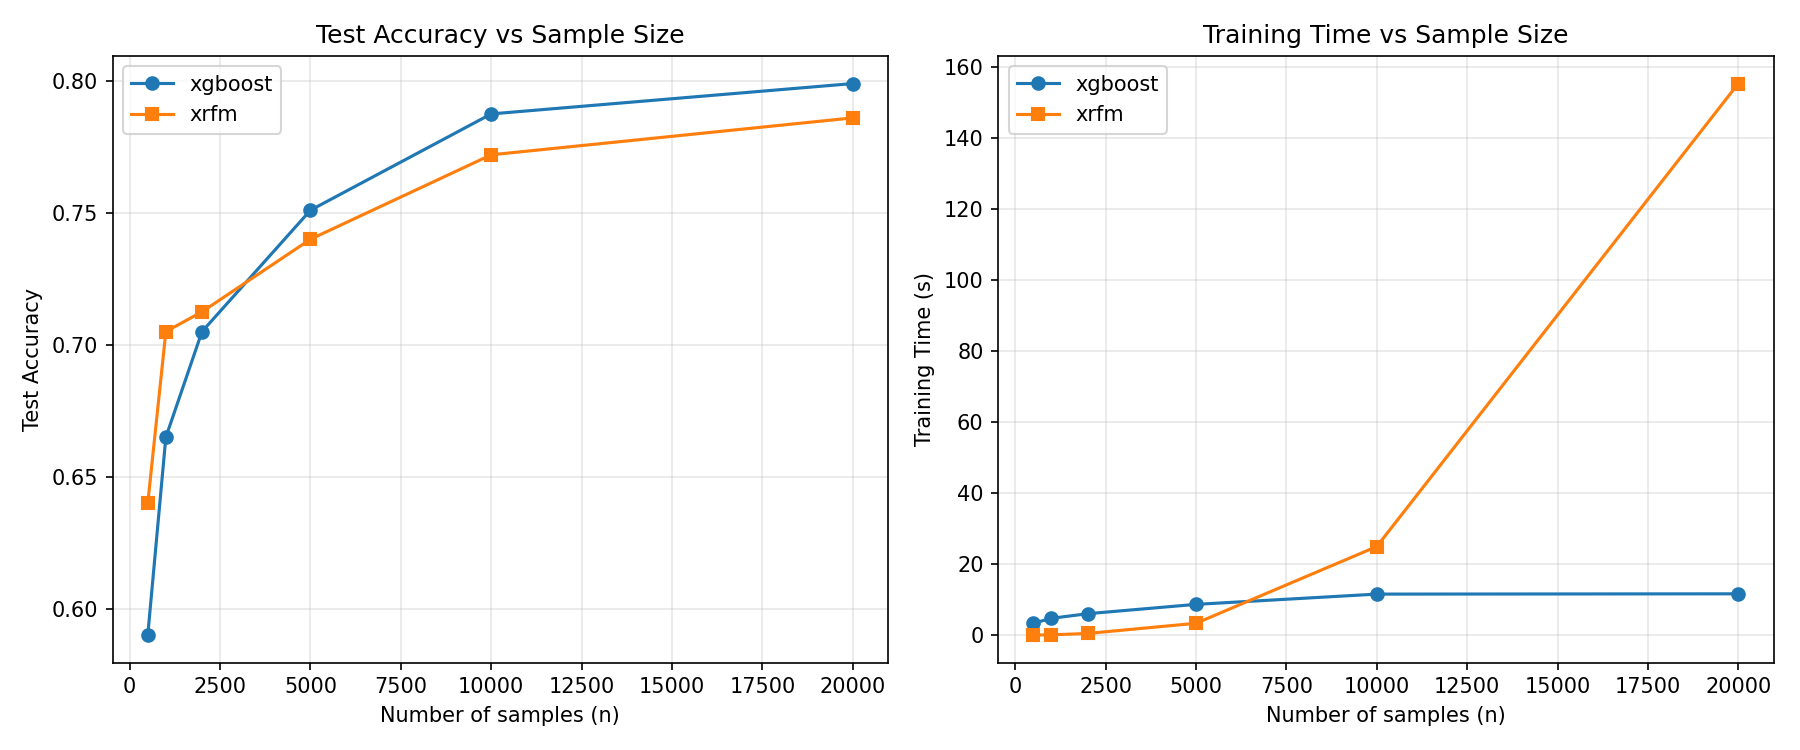
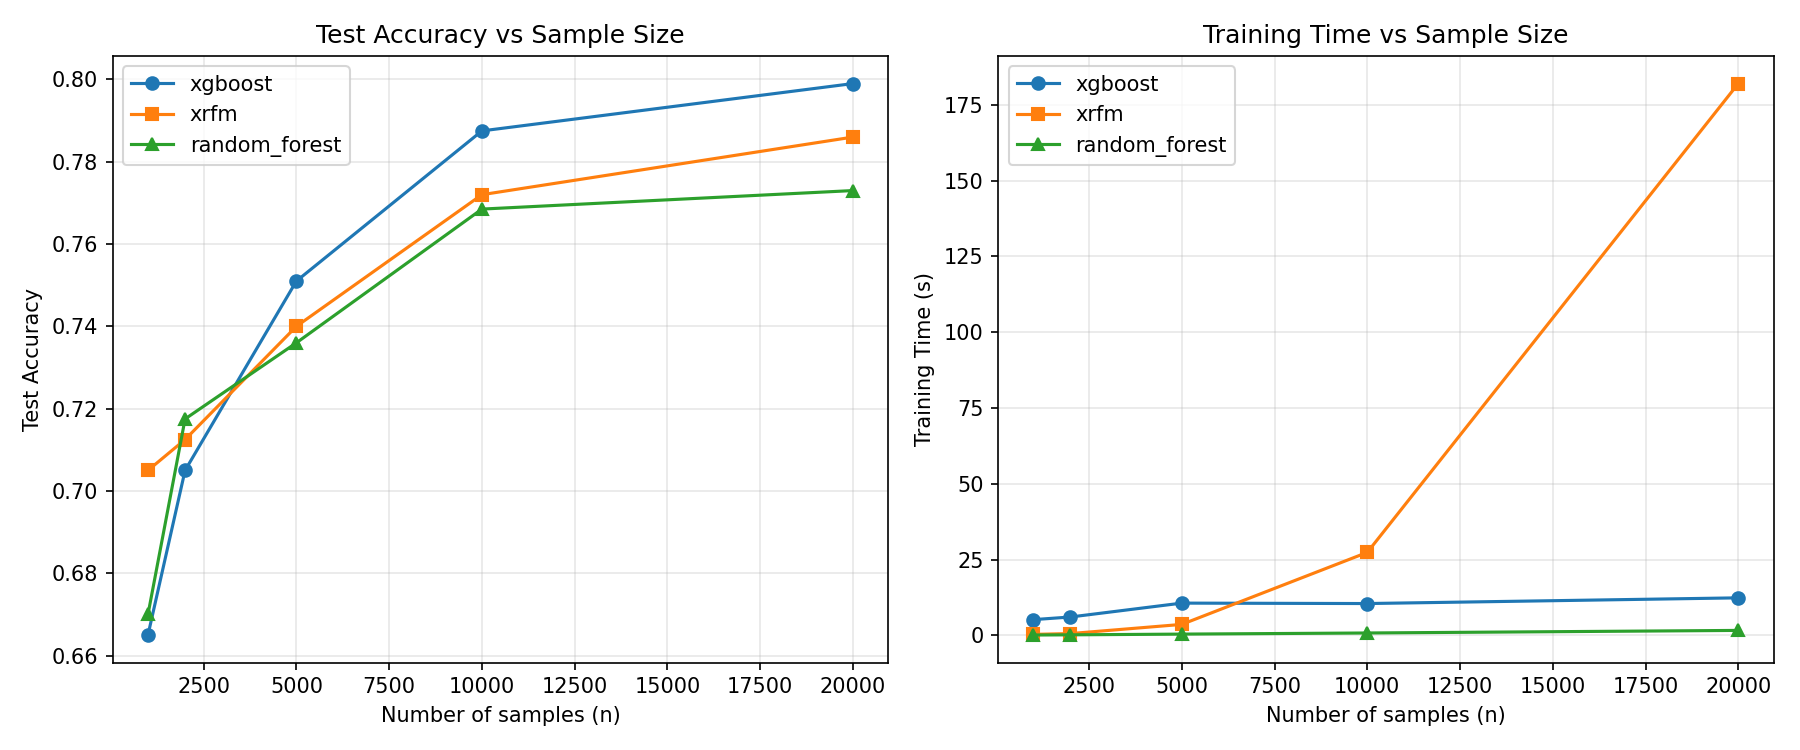
Add Random_Forest and optimization

diff --git a/scaling_test.py b/scaling_test.py
@@ -20,26 +20,27 @@ from sklearn.preprocessing import OneHotEncoder
 from pathlib import Path
 
 
-N_VALUES = [500, 1000, 2000, 5000, 10000, 20000]
+N_VALUES = [1000, 2000, 5000, 10000, 20000]
 RANDOM_STATE = 42
 
 
-def run_xgboost(X_train, y_train, X_test, y_test, best_params):
-    """用已知的 best_params 训练 XGBoost，返回 accuracy 和 training time"""
-    from xgboost import XGBClassifier
+def run_others(model_name, X_train, y_train, X_test, y_test):
+    """用已有的 best_params 训练模型，返回 accuracy 和 training time"""
+    from configs.config import MODEL_CONFIG
 
-    model = XGBClassifier(
-        objective="multi:softprob",
-        eval_metric="mlogloss",
-        random_state=RANDOM_STATE,
-    )
-    model.set_params(**best_params)
+    # 读取已有的 best_params（不重新调参）
+    with open(f"configs/best_{model_name}.json") as f:
+        best_params = json.load(f)["best_params"]
+
+    model_config = MODEL_CONFIG[model_name]
+    estimator = model_config["estimator"]
+    estimator.set_params(**best_params)
 
     start = time.perf_counter()
-    model.fit(X_train, y_train)
+    estimator.fit(X_train, y_train)
     train_time = time.perf_counter() - start
 
-    y_pred = model.predict(X_test)
+    y_pred = estimator.predict(X_test)
     accuracy = get_accuracy(y_test, y_pred)
 
     return accuracy, train_time
@@ -82,12 +83,6 @@ def run_model(model_name):
     """对指定模型跑所有 n 值，保存结果到 JSON"""
     X, y, le = load_data()
 
-    # XGBoost 需要读 best_params
-    xgb_best_params = None
-    if model_name == "xgboost":
-        with open("configs/best_xgboost.json") as f:
-            xgb_best_params = json.load(f)["best_params"]
-
     results = {"n_values": N_VALUES, "accuracy": [], "train_time": []}
 
     for n in N_VALUES:
@@ -95,15 +90,17 @@ def run_model(model_name):
         print(f"{model_name} | n = {n}")
         print(f"{'='*50}")
 
-        X_train, X_test, y_train, y_test = split_data(X, y, n_samples=n)
+        if model_name != "xrfm":
+            X_train, X_test, y_train, y_test = split_data(X, y, n_samples=n)
 
-        # 转 numpy
-        X_train_np, X_test_np = X_train.values, X_test.values
-        y_train_np, y_test_np = y_train.values, y_test.values
+            acc, t = run_others(model_name, X_train, y_train, X_test, y_test)
+        else:
+            X_train, X_test, y_train, y_test = split_data(X, y, n_samples=n)
 
-        if model_name == "xgboost":
-            acc, t = run_xgboost(X_train_np, y_train_np, X_test_np, y_test_np, xgb_best_params)
-        elif model_name == "xrfm":
+            # 转 numpy
+            X_train_np, X_test_np = X_train.values, X_test.values
+            y_train_np, y_test_np = y_train.values, y_test.values
+
             acc, t = run_xrfm(X_train_np, y_train_np, X_test_np, y_test_np)
 
         results["accuracy"].append(float(acc))
@@ -122,16 +119,16 @@ def plot():
     """读取各模型的 scaling 结果，画对比图"""
     fig, axes = plt.subplots(1, 2, figsize=(12, 5))
 
-    for name in ["xgboost", "xrfm"]:
+    markers = {"xgboost": "o-", "xrfm": "s-", "random_forest": "^-"}
+    for name in ["xgboost", "xrfm", "random_forest"]:
         path = f"results/scaling_{name}.json"
         if not Path(path).exists():
             print(f"Warning: {path} not found, skipping")
             continue
         with open(path) as f:
             data = json.load(f)
-        marker = 'o-' if name == "xgboost" else 's-'
-        axes[0].plot(data["n_values"], data["accuracy"], marker, label=name)
-        axes[1].plot(data["n_values"], data["train_time"], marker, label=name)
+        axes[0].plot(data["n_values"], data["accuracy"], markers[name], label=name)
+        axes[1].plot(data["n_values"], data["train_time"], markers[name], label=name)
 
     axes[0].set_xlabel("Number of samples (n)")
     axes[0].set_ylabel("Test Accuracy")
@@ -155,7 +152,7 @@ if __name__ == "__main__":
     cmd = sys.argv[1]
     if cmd == "plot":
         plot()
-    elif cmd in ("xgboost", "xrfm"):
+    elif cmd in ("xgboost", "xrfm", "random_forest"):
         run_model(cmd)
     else:
         print(f"Unknown command: {cmd}")

diff --git a/tune.py b/tune.py
@@ -8,12 +8,7 @@ from sklearn.model_selection import GridSearchCV
 
 
 
-def main(model_name):
-    # load data
-    X, y, le = load_data()
-
-    # split dataset
-    X_train, _, y_train, _ = split_data(X ,y)
+def run_tune(model_name, X_train, y_train):
 
     # choose current model config
     model_config = MODEL_CONFIG[model_name]
@@ -34,6 +29,16 @@ def main(model_name):
     best_params = grid_search.best_params_
     best_cv_score = grid_search.best_score_
 
+
+    return best_params, best_cv_score
+
+def main(model_name):
+    # load data
+    X, y, _ = load_data()
+
+    # split dataset
+    X_train, _, y_train, _ = split_data(X ,y)
+    best_params, best_cv_score = run_tune(model_name, X_train, y_train)
 
     Path("configs").mkdir(exist_ok=True)        # 防御
     with open(f"configs/best_{model_name}.json", "w") as f:

diff --git a/configs/config.py b/configs/config.py
@@ -1,4 +1,5 @@
 from sklearn.tree import DecisionTreeClassifier
+from sklearn.ensemble import RandomForestClassifier
 from xgboost import XGBClassifier
 
 
@@ -23,5 +24,12 @@ MODEL_CONFIG = {
             "learning_rate": [0.01, 0.1, 0.3],
         }
     },
-    # new model
+    "random_forest": {
+        "estimator": RandomForestClassifier(random_state=42),
+        "param_grid": {
+            "n_estimators": [100, 300, 500],
+            "max_depth": [10, 20, None],
+            "min_samples_leaf": [1, 2, 4],
+        }
+    },
 }
